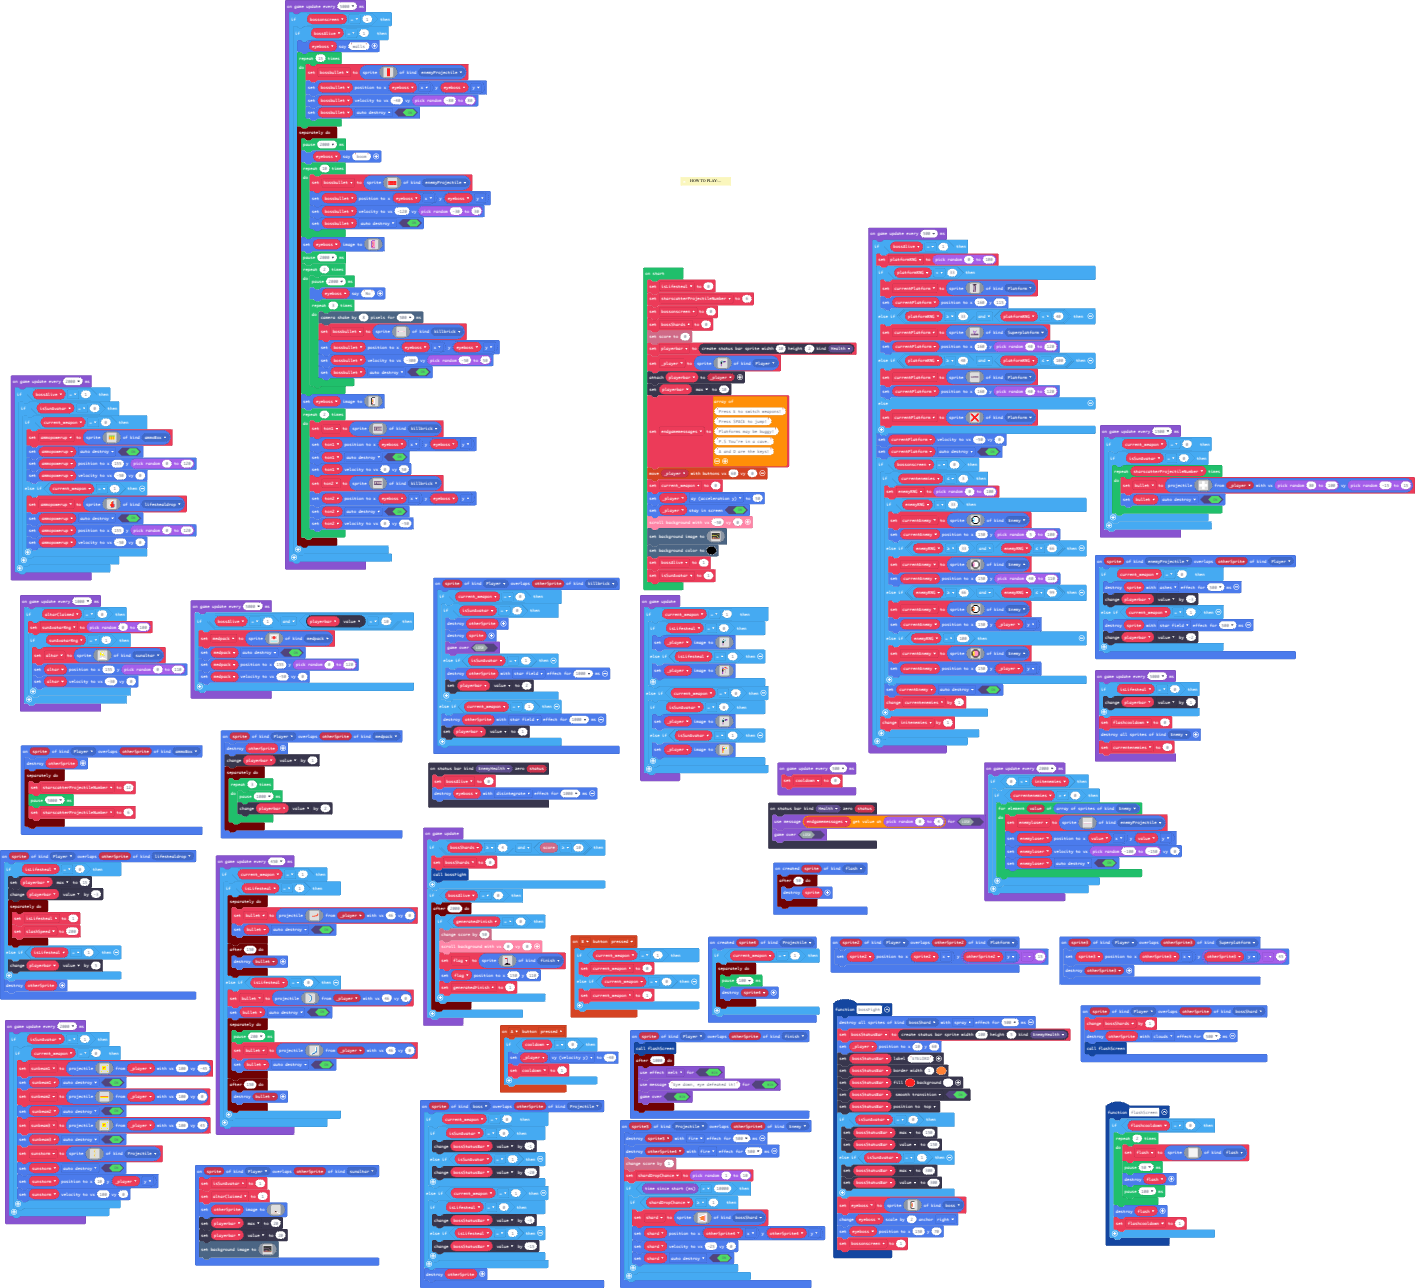
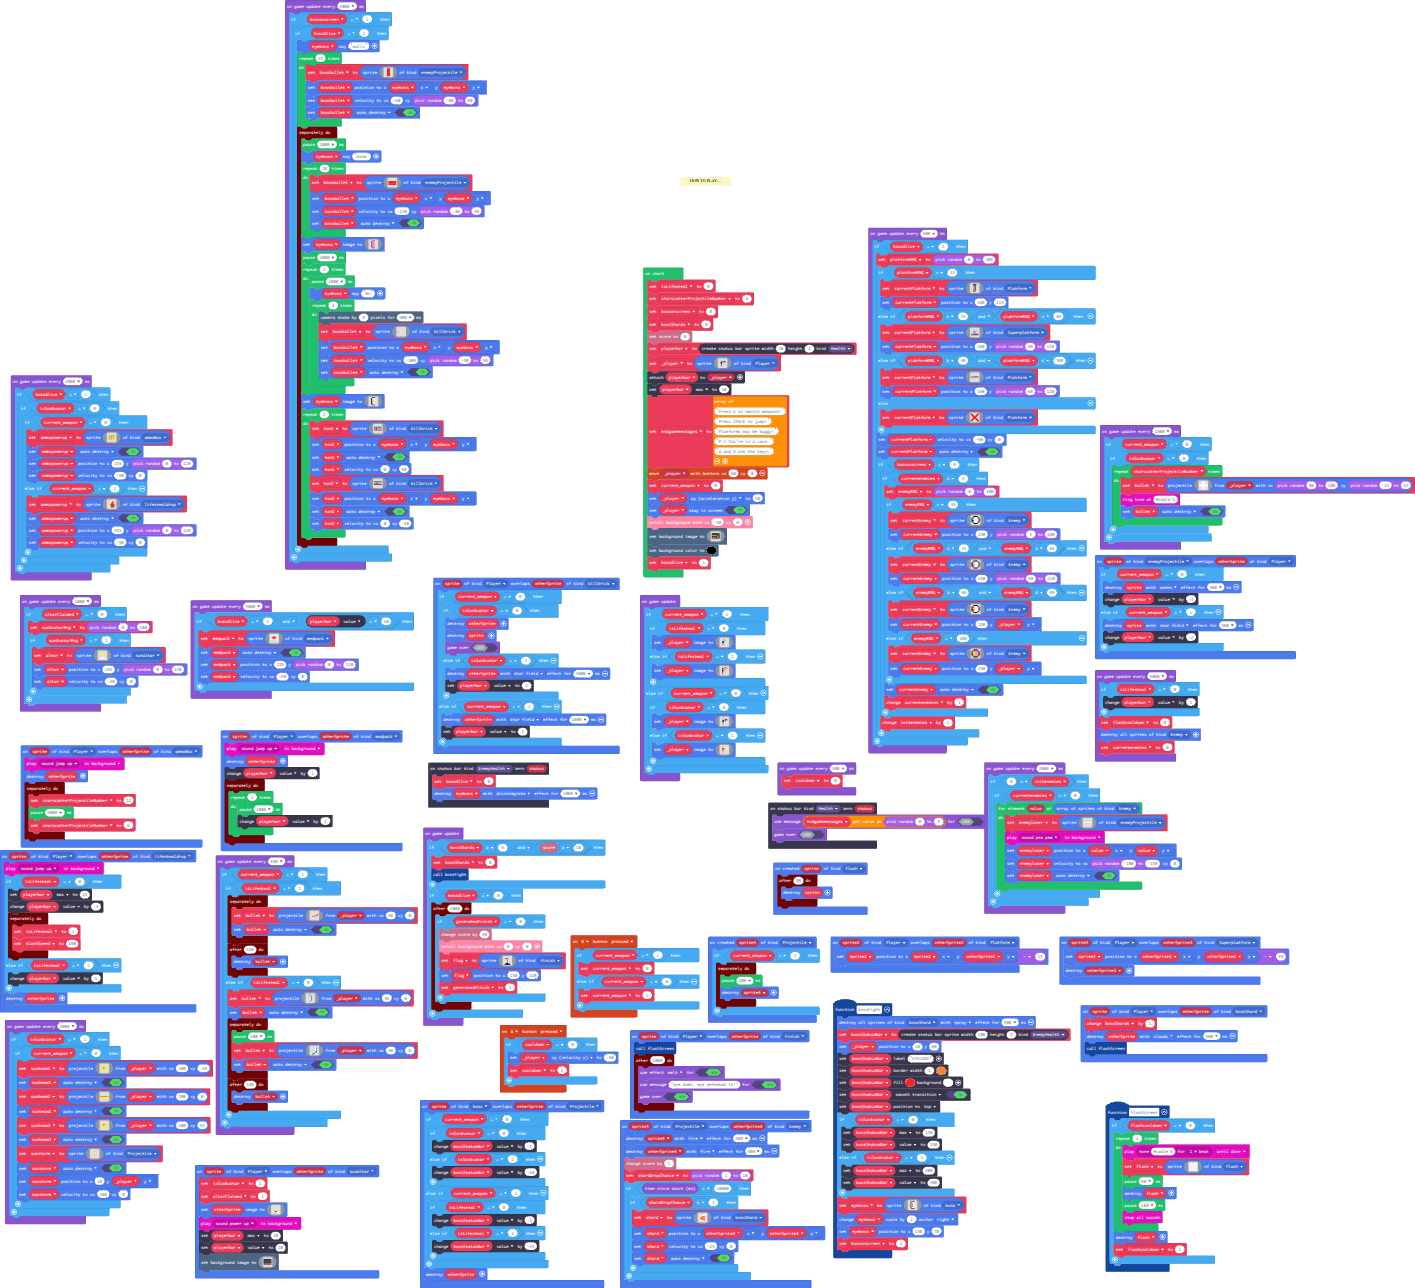
Update main.blocks, main.ts

diff --git a/main.ts b/main.ts
@@ -192,6 +192,7 @@ statusbars.onZero(StatusBarKind.Health, function (status) {
     game.gameOver(false)
 })
 sprites.onOverlap(SpriteKind.Player, SpriteKind.lifestealdrop, function (sprite, otherSprite) {
+    music.play(music.melodyPlayable(music.jumpUp), music.PlaybackMode.InBackground)
     if (isLifesteal == 0) {
         playerbar.max = 15
         playerbar.value += -3
@@ -207,6 +208,7 @@ sprites.onOverlap(SpriteKind.Player, SpriteKind.lifestealdrop, function (sprite,
 function flashScreen () {
     if (flashcooldown == 0) {
         for (let index = 0; index < 2; index++) {
+            music.play(music.tonePlayable(330, music.beat(BeatFraction.Whole)), music.PlaybackMode.UntilDone)
             flash = sprites.create(img`
                 111111111111111111111111111111111111111111111111111111111111111111111111111111111111111111111111111111111111111111111111111111111111111111111111111111111111111111111111111111111111111111111111111111111111111111111111111111111111111111111111111111111111111111111111111111111111111111111111111111111111
                 111111111111111111111111111111111111111111111111111111111111111111111111111111111111111111111111111111111111111111111111111111111111111111111111111111111111111111111111111111111111111111111111111111111111111111111111111111111111111111111111111111111111111111111111111111111111111111111111111111111111
@@ -512,6 +514,7 @@ function flashScreen () {
             pause(50)
             sprites.destroy(flash)
             pause(100)
+            music.stopAllSounds()
         }
         sprites.destroy(flash)
         flashcooldown = 1
@@ -529,6 +532,7 @@ sprites.onOverlap(SpriteKind.Player, SpriteKind.sunaltar, function (sprite, othe
     isSunAvatar = 1
     altarClaimed = 1
     otherSprite.setImage(assets.image`stolenaltar`)
+    music.play(music.melodyPlayable(music.powerUp), music.PlaybackMode.InBackground)
     playerbar.max = 20
     playerbar.value = 20
     scene.setBackgroundImage(assets.image`SunBackground`)
@@ -539,6 +543,7 @@ sprites.onCreated(SpriteKind.flash, function (sprite) {
     })
 })
 sprites.onOverlap(SpriteKind.Player, SpriteKind.medpack, function (sprite, otherSprite) {
+    music.play(music.melodyPlayable(music.jumpUp), music.PlaybackMode.InBackground)
     sprites.destroy(otherSprite)
     playerbar.value += 1
     timer.background(function () {
@@ -549,6 +554,7 @@ sprites.onOverlap(SpriteKind.Player, SpriteKind.medpack, function (sprite, other
     })
 })
 sprites.onOverlap(SpriteKind.Player, SpriteKind.ammoBox, function (sprite, otherSprite) {
+    music.play(music.melodyPlayable(music.jumpUp), music.PlaybackMode.InBackground)
     sprites.destroy(otherSprite)
     timer.background(function () {
         starscatterProjectileNumber = 12
@@ -745,7 +751,6 @@ scene.setBackgroundImage(img`
     `)
 scene.setBackgroundColor(15)
 bossAlive = 1
-isSunAvatar = 1
 game.onUpdate(function () {
     if (current_weapon == 1) {
         if (isLifesteal == 0) {
@@ -1042,6 +1047,7 @@ game.onUpdateInterval(2000, function () {
                     1 1 1 1 1 1 1 1 1 1 1 1 1 1 1 
                     3 3 3 3 3 3 3 3 3 3 3 3 3 3 3 
                     `, SpriteKind.enemyProjectile)
+                music.play(music.melodyPlayable(music.pewPew), music.PlaybackMode.InBackground)
                 enemylaser.setPosition(value.x, value.y)
                 enemylaser.setVelocity(randint(-100, -150), 0)
                 enemylaser.setFlag(SpriteFlag.AutoDestroy, true)
@@ -1188,6 +1194,7 @@ game.onUpdateInterval(1500, function () {
                     1 1 1 
                     . 1 . 
                     `, _player, randint(80, 100), randint(-15, 15))
+                music.ringTone(330)
                 bullet.setFlag(SpriteFlag.AutoDestroy, true)
             }
         }
